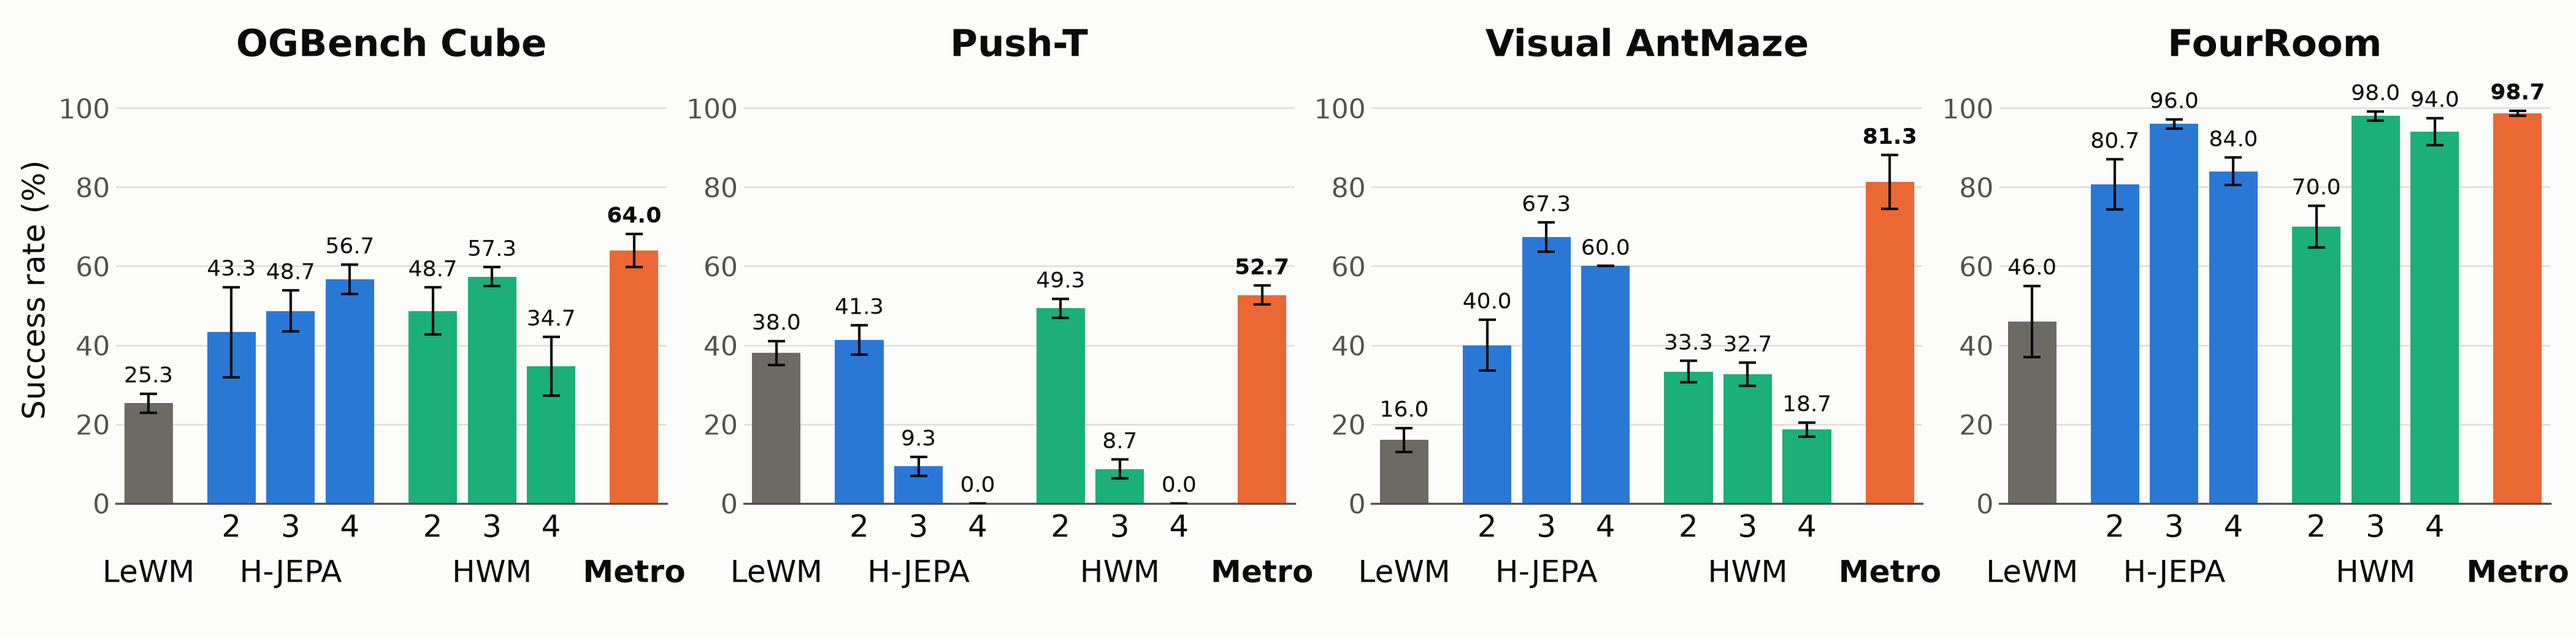
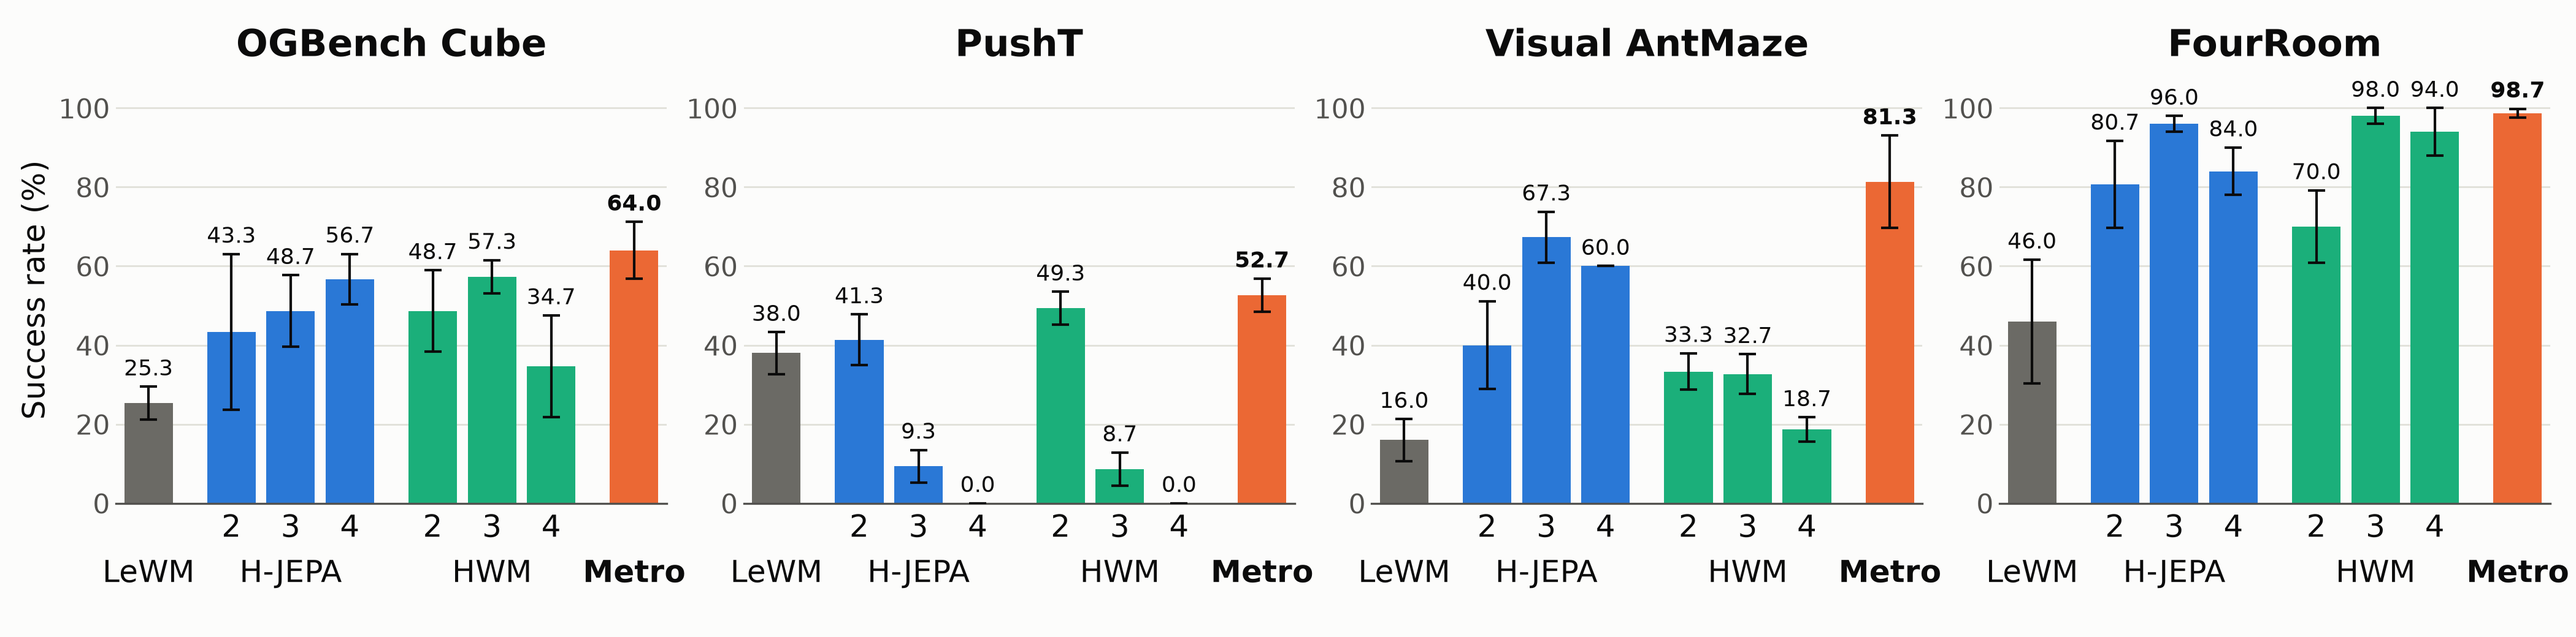
fixed typos, added more examples, report SD instead of SE for H-JEPA setup

diff --git a/hjepa/summarize.py b/hjepa/summarize.py
@@ -1,4 +1,4 @@
-"""Success rates of hjepa/reproduce.sh: mean ± standard error over seeds 42/43/44 (H-JEPA's convention).
+"""Success rates of hjepa/reproduce.sh: mean ± standard deviation over seeds 42/43/44.
 
     python hjepa/summarize.py
 """
@@ -21,13 +21,13 @@ def success(bench, h, H, seed):
 
 
 def main():
-    print("| benchmark | h | H | " + " | ".join(f"seed {s}" for s in SEEDS) + " | mean ± SE |")
+    print("| benchmark | h | H | " + " | ".join(f"seed {s}" for s in SEEDS) + " | mean ± SD |")
     print("|---|---|---|" + "---|" * len(SEEDS) + "---|")
     for bench, (h, H) in CELLS.items():
         r = [success(bench, h, H, s) for s in SEEDS]
         done = [x for x in r if x is not None]
-        se = np.std(done, ddof=1) / np.sqrt(len(done)) if len(done) > 1 else float("nan")
-        mean = f"{np.mean(done):.1f} ± {se:.1f}" + ("" if len(done) == len(SEEDS) else f" (n={len(done)})") if done else "—"
+        sd = np.std(done, ddof=1) if len(done) > 1 else float("nan")
+        mean = f"{np.mean(done):.1f} ± {sd:.1f}" + ("" if len(done) == len(SEEDS) else f" (n={len(done)})") if done else "—"
         print(f"| {bench} | {h} | {H} | " + " | ".join("—" if x is None else f"{x:.0f}" for x in r) + f" | {mean} |")
 
 

diff --git a/README.md b/README.md
@@ -4,7 +4,7 @@
   <a href="https://arxiv.org/abs/2609.31868">Paper (arXiv:2609.31868)</a> | <a href="#getting-started">Getting started</a> | <a href="#citation">Citation</a>
 </p>
 
-Metro-WM is a hierarchical planner for JEPA world models. Instead of generating latent sub-goals, which are often physically unrealisable, it retrieves real frames from offline data as sub-goals. It does this by routing over a graph of recorded frames that stitches episodes together.
+Metro-WM is a training-free hierarchical planner for JEPA world models. Instead of generating latent sub-goals, which are often physically unrealisable, it retrieves real frames from offline data as sub-goals. It does this by routing over a graph of recorded frames that stitches episodes together.
 
 ## News
 
@@ -16,7 +16,7 @@ Metro-WM is a hierarchical planner for JEPA world models. Instead of generating 
 
 ### Comparisons with H-JEPA and HWM (Gradient planner)
 
-In the setup of [H-JEPA](https://github.com/kevinghst/H-JEPA) (their checkpoints, gradient-descent planner, tasks and evaluation code), Metro-WM guides their flat LeWM and achieves the highest mean success on all four benchmarks. Mean ± standard error over H-JEPA's model seeds 42/43/44.
+In the setup of [H-JEPA](https://github.com/kevinghst/H-JEPA) (their checkpoints, gradient-descent planner, tasks and evaluation code), Metro-WM guides their flat LeWM and achieves the highest mean success on all four benchmarks. Mean ± standard deviation over H-JEPA's model seeds 42/43/44.
 To reproduce, see the [H-JEPA setup](docs/hjepa_setup.md).
 
 <p align="center">
@@ -31,8 +31,11 @@ To reproduce, see the [H-JEPA setup](docs/hjepa_setup.md).
 <summary>More examples</summary>
 
 <p align="center">
-  <img src="assets/hjepa_pusht_example.gif" width="100%" alt="Push-T: HWM 2 and H-JEPA 2 miss the goal, Metro-LeWM reaches it">
+  <img src="assets/hjepa_ant_example2.gif" width="100%" alt="Visual AntMaze: Metro-LeWM reaches the goal first">
+  <img src="assets/hjepa_pusht_example.gif" width="100%" alt="PushT: HWM 2 and H-JEPA 2 miss the goal, Metro-LeWM reaches it">
+  <img src="assets/hjepa_pusht_example2.gif" width="100%" alt="PushT: Metro-LeWM reaches the goal first">
   <img src="assets/hjepa_fourroom_example.gif" width="100%" alt="FourRoom: HWM 3 and H-JEPA 3 miss the goal, Metro-LeWM reaches it">
+  <img src="assets/hjepa_fourroom_example2.gif" width="100%" alt="FourRoom: Metro-LeWM reaches the goal first">
 </p>
 
 </details>
@@ -56,9 +59,12 @@ To reproduce, see the [LeWM setup](docs/lewm_setup.md).
 <summary>More examples</summary>
 
 <p align="center">
+  <img src="assets/pusht_example2.gif" width="100%" alt="PushT: Metro-LeWM reaches the goal first">
   <img src="assets/cube_example.gif" width="100%" alt="Cube: LeWM and Hi-LeWM-C miss the goal, Metro-LeWM reaches it">
   <img src="assets/reacher_example.gif" width="100%" alt="Reacher: LeWM and Hi-LeWM-C miss the goal, Metro-LeWM reaches it">
+  <img src="assets/reacher_example2.gif" width="100%" alt="Reacher: Metro-LeWM reaches the goal first">
   <img src="assets/tworoom_example.gif" width="100%" alt="TwoRoom: LeWM and Hi-LeWM-C miss the goal, Metro-LeWM reaches it">
+  <img src="assets/tworoom_example2.gif" width="100%" alt="TwoRoom: Metro-LeWM reaches the goal first">
 </p>
 
 </details>
@@ -70,7 +76,7 @@ Each setup has its own standalone guide covering installation, data and models, 
 
 | Setup | Planner | Benchmarks | Guide |
 |---|---|---|---|
-| H-JEPA | Gradient descent | OGBench Cube, Push-T, Visual AntMaze, FourRoom | [docs/hjepa_setup.md](docs/hjepa_setup.md) |
+| H-JEPA | Gradient descent | Cube, PushT, AntMaze, FourRoom | [docs/hjepa_setup.md](docs/hjepa_setup.md) |
 | LeWM | CEM | PushT, Cube, TwoRoom, Reacher | [docs/lewm_setup.md](docs/lewm_setup.md) |
 
 ## Method
@@ -78,7 +84,8 @@ Each setup has its own standalone guide covering installation, data and models, 
 <details>
 <summary>Abstract</summary>
 
-Model-predictive control with Joint-Embedding Predictive Architectures (JEPAs) provides a strong zero-shot goal-reaching planner, but it is only effective over short planning horizons. Hierarchical extensions attempt to bridge this gap by learning a macro planner to predict intermediate latent sub-goals to guide the micro planner. In this work, we demonstrate that unconstrained latent sub-goal prediction is fundamentally flawed. A rigorous evaluation reveals that a leading state-of-the-art macro planner routinely emits physically unrealisable sub-goals. To resolve this, we introduce Metro-WM, a hierarchical framework that issues sub-goals by retrieving genuine states from prior experience rather than generating ungrounded latent vectors. Specifically, Metro-WM constructs a graph whose vertices are observed frames from offline expert demonstrations or random-action trajectories, allowing frames from different episodes to be connected and stitched into routes to the goal. Planning over the full graph also makes the system highly robust to execution errors: if the micro planner drifts off course, Metro-WM instantly finds a new optimal path from the current state. Our experiments show that Metro-WM achieves superior long-horizon success rates of up to 37.33 percentage points over the next best hierarchical approach while being up to 10.9 times faster, requiring both 13-56 times less offline compute and fewer tuned hyperparameters. Additional analysis reveals that Metro-WM finds shorter paths than the offline demonstrations, outperforms an oracle relying on the query's own demonstration, and maintains robust performance under extremely sparse dataset conditions.
+Model-predictive control with Joint-Embedding Predictive Architectures (JEPAs) provides a strong zero-shot goal-reaching planner, but it is only effective over short planning horizons. Hierarchical extensions attempt to bridge this gap by learning a macro planner to predict intermediate latent sub-goals to guide the micro planner. In this work, we demonstrate that unconstrained latent sub-goal prediction is fundamentally flawed. A rigorous evaluation reveals that leading hierarchical macro
+planners routinely emit physically unrealisable sub-goals. To resolve this, we introduce Metro-WM, a hierarchical framework that issues sub-goals by retrieving genuine states from prior experience rather than generating ungrounded latent vectors. Specifically, Metro-WM constructs a graph whose vertices are observed frames from offline expert demonstrations or random-action trajectories, allowing frames from different episodes to be connected and stitched into routes to the goal. Planning over the full graph also makes the system highly robust to execution errors: if the micro planner drifts off course, Metro-WM instantly finds a new optimal path from the current state. Our experiments show that Metro-WM achieves superior long-horizon success rates of up to 37.33 percentage points over the strongest hierarchical baseline on the same world model while being up to 10.9 times faster, requiring both 13-56 times less offline compute and fewer tuned hyperparameters. Additional analysis reveals that Metro-WM frequently finds shorter paths than the offline demonstrations, outperforms an oracle relying on the query's own demonstration on most benchmarks, and maintains robust performance under extremely sparse dataset conditions.
 
 </details>
 

diff --git a/docs/hjepa_setup.md b/docs/hjepa_setup.md
@@ -1,6 +1,6 @@
 # Metro-WM: H-JEPA setup (gradient planner)
 
-This setup runs Metro-WM inside the evaluation of H-JEPA and compares Metro-WM with H-JEPA and HWM on OGBench Cube, Push-T, Visual AntMaze and FourRoom Distractors using a gradient planner.
+This setup runs Metro-WM inside the evaluation of H-JEPA and compares Metro-WM with H-JEPA and HWM on OGBench Cube, PushT, Visual AntMaze and FourRoom Distractors using a gradient planner.
 
 ## 1. Installation
 
